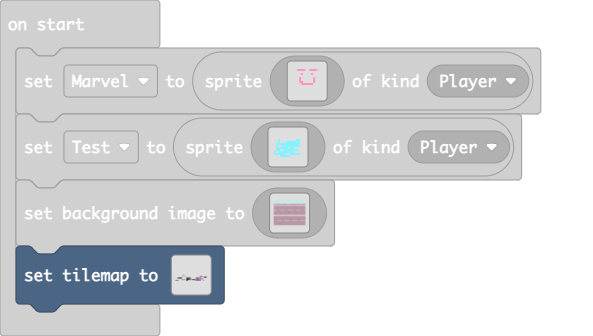
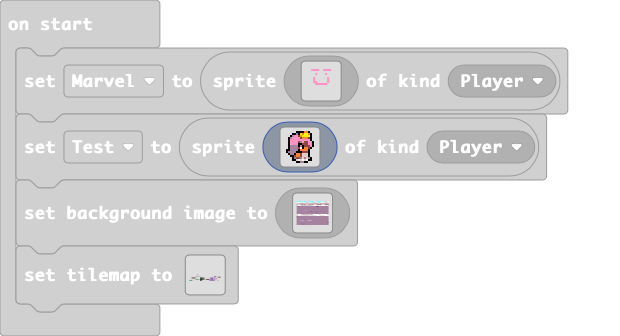
Update main.blocks, main.ts

diff --git a/main.ts b/main.ts
@@ -17,22 +17,22 @@ let Marvel = sprites.create(img`
     . . . . . . . . . . . . . . . . 
     `, SpriteKind.Player)
 let Test = sprites.create(img`
-    . . . . . . . . . . . . . . . . 
-    . . . . . . . . . . . . . . . . 
-    . . . . . . . . . . . . . . . . 
-    . . . . . . . . . . . . . . . . 
-    . . . 9 . . . . . . . . 9 9 . . 
-    . . . 9 . . . 9 9 9 9 9 9 9 . . 
-    . . 9 9 9 9 9 9 9 9 9 9 9 9 . . 
-    . . 9 . . 9 9 9 9 9 9 9 9 9 . . 
-    . . 9 9 9 9 9 9 . 9 9 . . . . . 
-    . . 9 9 . . 9 9 9 9 9 9 9 . . . 
-    . 9 . 9 9 9 9 9 9 9 9 . . . . . 
-    . 9 9 9 9 9 9 . . 9 9 9 9 9 . . 
-    . . . . 9 9 9 9 9 . . . . . . . 
-    . . . . . . . . . . . . . . . . 
-    . . . . . . . . . . . . . . . . 
-    . . . . . . . . . . . . . . . . 
+    . . . . . . f f f f 4 4 f . . . 
+    . . . . f f b f 5 4 5 5 4 f . . 
+    . . . f b 3 3 e 4 5 5 5 5 f . . 
+    . . f b 3 3 3 3 e 4 4 4 e f . . 
+    . . f 3 3 3 3 3 3 3 3 3 3 f . . 
+    . . f 3 3 3 3 e b 3 e e 3 3 f . 
+    . . f 3 3 3 3 f f e e e 3 3 f . 
+    . . f b b b b f b f e e e 3 f . 
+    . . f b b b b e 1 f 4 4 e f . . 
+    . f f b b b b f 4 4 4 4 f . . . 
+    . f b b b b f f f e e e f . . . 
+    . . f b b f 4 4 e d d d f . . . 
+    . . . f f e 4 4 e d d d f . . . 
+    . . . . f b e e b d b d b f . . 
+    . . . . f f d 1 d 1 d 1 f f . . 
+    . . . . . . f f b b f f . . . . 
     `, SpriteKind.Player)
 scene.setBackgroundImage(img`
     9999999999999999999999999999999999999999999999999999999999999999999999999999999999999999999999999999999999999999999999999999999999999999999999999999999999999999
